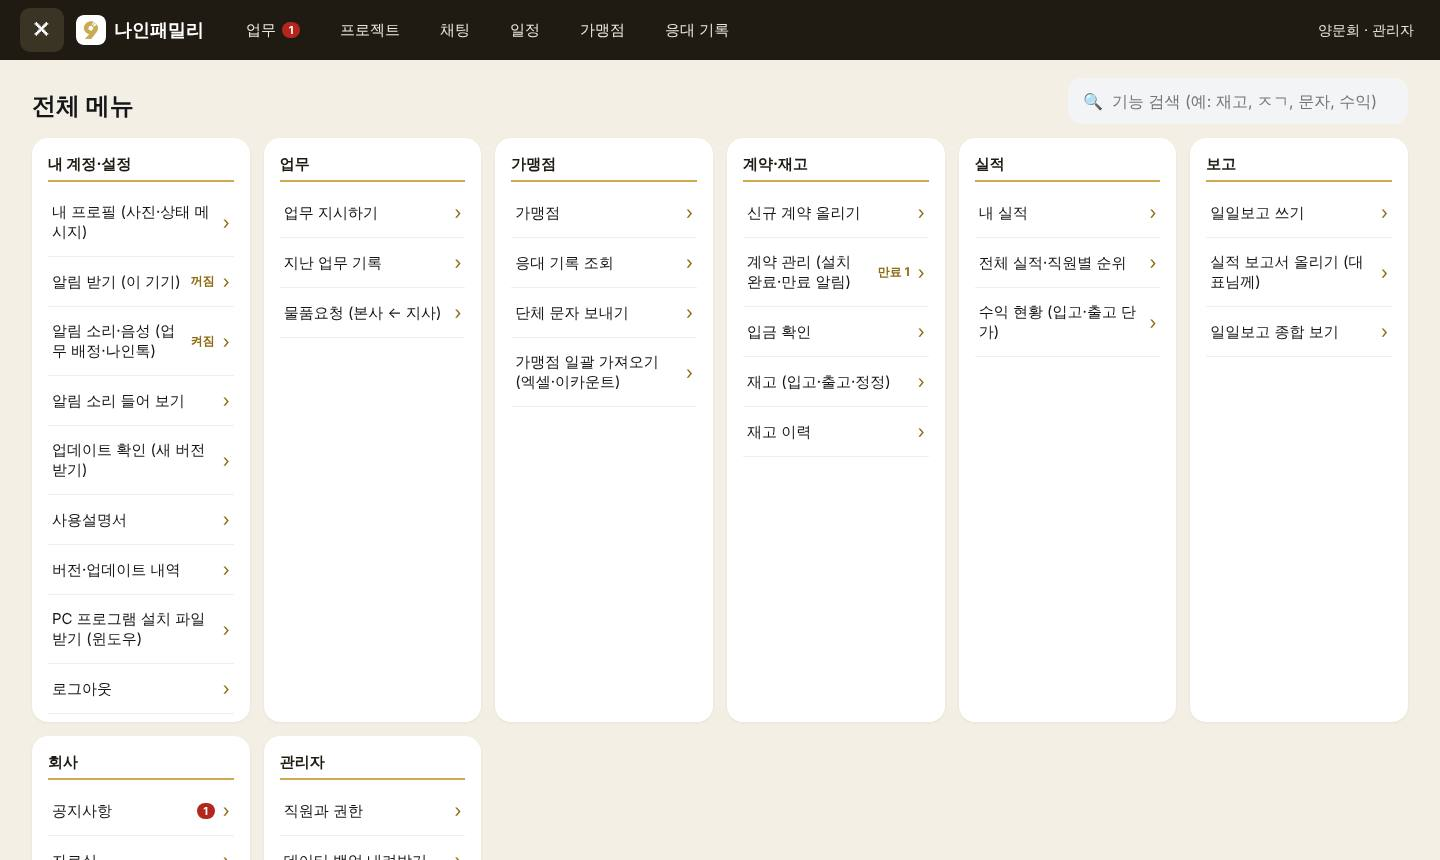
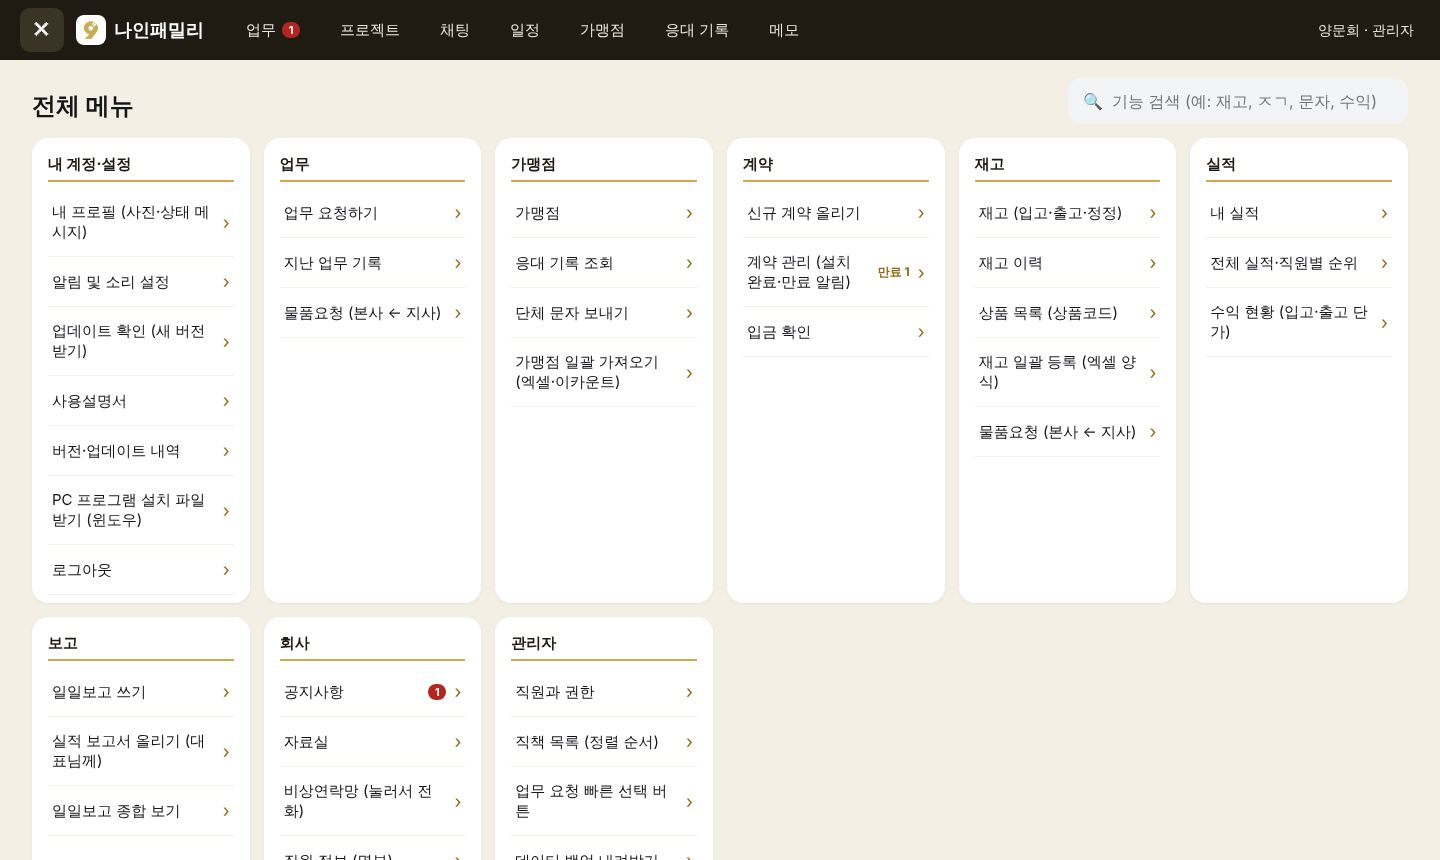
기능 소개서 갱신 (앱 v0.0.23 · 웹 0.0.34 기준, 새 화면)
Claude-Session: https://claude.ai/code/session_01LWjW4LfQjajZfStAKsDaD8

diff --git a/docs/intro/nine-family-intro.html b/docs/intro/nine-family-intro.html
@@ -77,9 +77,9 @@ footer{padding-block:48px 56px;color:var(--sub);font-size:13px}
     <div>
       <div class="eyebrow" style="color:var(--gold)">(주)나인페이먼츠 사내 업무 앱</div>
       <h1>나인패밀리</h1>
-      <p class="lead">업무 지시부터 가맹점 응대, 재고와 물품요청, 계약·실적, 사내 메신저 나인톡까지. 본사와 광주지사가 한 서버에서 실시간으로 같은 자료를 봅니다.</p>
+      <p class="lead">업무 요청부터 가맹점 응대, 재고와 물품요청, 계약·실적, 사내 메신저 나인톡까지. 본사와 광주지사가 한 서버에서 실시간으로 같은 자료를 봅니다.</p>
       <div class="plat"><span>안드로이드 앱</span><span>아이폰 웹앱</span><span>윈도우 PC 프로그램</span></div>
-      <p class="who">앱 v0.0.11 · 웹 0.0.23 기준 · 2026년 10월</p>
+      <p class="who">앱 v0.0.23 · 웹 0.0.34 기준 · 2026년 10월 25일</p>
     </div>
     <img src="img/pc_home.jpg" alt="PC 화면: 위쪽 주 메뉴와 왼쪽 내 할 일, 오늘 현황" width="1440" height="860">
   </div>
@@ -88,26 +88,26 @@ footer{padding-block:48px 56px;color:var(--sub);font-size:13px}
 <div class="wrap">
   <div class="facts">
     <div class="fact"><b>3</b><span>기기 (안드로이드·아이폰·PC), 같은 자료</span></div>
-    <div class="fact"><b>8</b><span>전체 메뉴 묶음, 권한별로 보이는 메뉴가 달라요</span></div>
+    <div class="fact"><b>9</b><span>전체 메뉴 묶음, 권한별로 보이는 메뉴가 달라요</span></div>
     <div class="fact"><b>2</b><span>재고 보관지 (본사·광주지사)</span></div>
-    <div class="fact"><b>3중</b><span>자료 보호 (삭제 방지·변경 기록·자동 백업)</span></div>
+    <div class="fact"><b>4중</b><span>자료 보호 (삭제 방지·변경 기록·자동 백업·삭제 비밀번호)</span></div>
   </div>
 
   <section>
     <div class="sechead">
       <div class="eyebrow">핵심 기능</div>
       <h2>하루 일이 한 화면에서 이어집니다</h2>
-      <p class="muted">업무를 지시하면 담당자 폰이 "업무가 배정되었습니다"라고 알려 주고, 처리결과는 그 가맹점 응대 기록에 자동으로 남습니다. 지사에서 물품을 요청하면 본사가 주문·발송하고, 받는 쪽이 입고 확인하는 순간 재고에 들어갑니다.</p>
+      <p class="muted">업무를 요청하면 담당자 폰이 "업무가 배정되었습니다"라고 알려 주고, 처리결과는 그 가맹점 응대 기록에 자동으로 남습니다. 지사에서 물품을 요청하면 본사가 주문·발송하고, 받는 쪽이 입고 확인하는 순간 재고에 들어갑니다.</p>
     </div>
 
     <article class="feat">
-      <div class="shot"><img src="img/pc_task.jpg" alt="업무 지시 창: 가맹점 조회, 용지신청 빠른 선택, 가맹점 요청사항" width="1440" height="860" loading="lazy"></div>
+      <div class="shot"><img src="img/pc_task.jpg" alt="업무 요청 창: 가맹점 조회, 빠른 선택 버튼, 가맹점 요청사항" width="1440" height="860" loading="lazy"></div>
       <div>
-        <span class="tag">업무</span><h3 style="margin-top:8px">업무 지시와 처리, 응대 기록까지 한 번에</h3>
+        <span class="tag">업무</span><h3 style="margin-top:8px">업무 요청과 처리, 응대 기록까지 한 번에</h3>
         <ul>
-          <li>제목·종류·담당자·기한을 정해 지시하면, 기한이 일정 달력에도 표시됩니다.</li>
+          <li>제목·종류·담당자·기한을 정해 요청하면, 기한이 일정 달력에도 표시됩니다.</li>
           <li>가맹점을 고르면 전화·주소가 채워지고, 없는 가맹점은 그 자리에서 새로 등록해 바로 연결합니다.</li>
-          <li>가맹점 요청사항에 <b>용지신청</b> 같은 빠른 선택이 있고, 직접 입력과 함께 씁니다.</li>
+          <li>가맹점 요청사항에 <b>용지신청</b> 같은 빠른 선택 버튼이 있고, 관리자가 버튼을 직접 추가·편집합니다.</li>
           <li>완료할 때 처리결과를 적으면 요청사항과 함께 그 가맹점 <b>응대 기록</b>에 남습니다.</li>
           <li>상태는 미확인 → 진행중 → 보류 → 완료. 열어 본 시각, 일정 변경까지 처리 이력에 남습니다.</li>
         </ul>
@@ -125,7 +125,9 @@ footer{padding-block:48px 56px;color:var(--sub);font-size:13px}
           <li>1:1 대화와 그룹 채팅방. 직원이 많아도 이름·초성·번호로 찾습니다.</li>
           <li>말풍선 옆 노란 숫자로 <b>아직 안 읽은 사람 수</b>를 보여 주고, 다 읽으면 사라집니다. 읽음은 계정 단위라 PC에서 읽으면 폰에서도 읽음이 됩니다.</li>
           <li>사진·파일·스티커·반응·답장.</li>
-          <li>"띵동" 소리와 함께 음성으로 알려 줍니다. 새 업무는 "업무가 배정되었습니다", 채팅은 "나인톡", 물품요청과 발송, 공지도 각각 다른 문구로 알립니다.</li>
+          <li>새 업무는 "띵동" + <b>"업무가 배정되었습니다"</b>, 채팅은 카톡처럼 짧고 밝게 <b>"나인톡!"</b>. 물품요청·발송·공지도 각각 다른 음성으로 알립니다.</li>
+          <li>☰ → 내 계정·설정 → <b>알림 및 소리 설정</b>에서 업무 소리·채팅 소리를 따로 켜고 끄고 들어 봅니다. 채팅방마다 음소거도 됩니다.</li>
+          <li>안드로이드 앱은 <b>화면이 꺼져 있거나 앱을 닫아도</b> 알림이 오고 화면이 켜집니다.</li>
         </ul>
       </div>
     </article>
@@ -136,10 +138,11 @@ footer{padding-block:48px 56px;color:var(--sub);font-size:13px}
         <span class="tag">가맹점</span><h3 style="margin-top:8px">가맹점 정보와 계약 만료 관리</h3>
         <ul>
           <li>상호·사업자번호·전화·휴대폰·이메일·주소·VAN사·계약구분(임대 월 CMS / 판매 금액)·등급·메모.</li>
+          <li>등급은 직원들이 부르는 대로 <b>0코드 · 1코드 · 2코드 · 3코드</b>(VAN 수수료 월 5만·3만·1만원 이상·미만), 그다음 해지가맹점 · 신규가맹점 · 협력사.</li>
           <li><b>계약시작일·계약종료일</b>과 남은 날(D-day). 목록에서 1·2·3개월 이내, 만료됨으로 걸러 종료일 빠른 순으로 봅니다.</li>
           <li>VAN·PG사 목록: 다우데이타, 다우데이타PG, KIS정보통신, KIS정보통신PG, NHN KCP, KOVAN, KOPAY PG.</li>
-          <li>상호·초성(ㅅㅇㅍㄷ)·사업자번호 검색. 엑셀·CSV(이카운트 등)로 한꺼번에 가져오기.</li>
-          <li>수정은 권한과 관리자가 정한 <b>암호</b>가 있어야 하고, 두 사람이 동시에 고치면 경고합니다.</li>
+          <li>상호·초성(ㅅㅇㅍㄷ)·사업자번호 검색. 이카운트 거래처 엑셀을 그대로 올리거나, <b>업로드 양식(.xlsx)</b>을 받아 채워 한꺼번에 가져옵니다.</li>
+          <li>수정은 권한과 관리자가 정한 <b>암호</b>가 있어야 하고, 삭제는 <b>삭제 비밀번호</b>를 한 번 더 묻습니다.</li>
         </ul>
       </div>
     </article>
@@ -160,14 +163,16 @@ footer{padding-block:48px 56px;color:var(--sub);font-size:13px}
     </article>
 
     <article class="feat">
-      <div class="shot"><img src="img/pc_preq.jpg" alt="물품요청: 요청 › 주문함 › 발송함 › 입고완료 단계" width="1440" height="860" loading="lazy"></div>
+      <div class="shot"><img src="img/pc_stock.jpg" alt="재고 화면: 보관지별 재고와 [상품코드] 표시, 재고 일괄 등록" width="1440" height="860" loading="lazy"><img src="img/pc_preq.jpg" alt="물품요청: 요청 › 주문함 › 발송함 › 입고완료 단계" width="1440" height="860" loading="lazy" style="margin-top:12px"></div>
       <div>
         <span class="tag">재고 · 물품요청</span><h3 style="margin-top:8px">본사·광주지사 재고와 지사 물품요청</h3>
         <ul>
           <li>보관지별 재고: 입고 때 보관지를 고르고, 보관지를 바꾸면 '이동'으로 이력에 남습니다.</li>
           <li>입고 · 출고(반품·불량·A/S 교체·분실) · 수량 정정(재고 조사) · 이력. 안전재고 아래로 떨어지면 빨갛게 알려 줍니다.</li>
+          <li><b>상품코드</b>(P0001…): 재고와 물품요청이 같은 상품 목록·코드를 씁니다. 관리자가 등록·수정합니다.</li>
+          <li><b>재고 일괄 등록(엑셀 양식)</b>: 상품코드·시리얼·수량·현재위치. 본사·광주지사는 우리 재고로, 가맹점 상호는 이미 설치된 장비로 기록만 합니다.</li>
           <li>바코드: PC는 USB·블루투스 스캐너, 폰은 카메라로 찍습니다.</li>
-          <li><b>물품요청</b>: 지사가 품목·수량을 적어 본사 담당자에게 보내면 본사가 주문·발송(송장 메모)하고, 받는 쪽이 입고 확인하면 그 보관지 재고에 자동으로 들어갑니다.</li>
+          <li><b>물품요청</b>: 재고 품목(상품코드·보관지별 재고 수)에서 고르거나, 없는 물품은 이름만 적어 본사 담당자에게 보내면 본사가 주문·발송(송장 메모)하고, 받는 쪽이 입고 확인하면 그 보관지 재고에 자동으로 들어갑니다.</li>
         </ul>
         <div class="flow"><span>요청</span><i>›</i><span>주문함</span><i>›</i><span>발송함</span><i>›</i><span>입고완료</span></div>
       </div>
@@ -180,9 +185,33 @@ footer{padding-block:48px 56px;color:var(--sub);font-size:13px}
         <ul>
           <li>신규 계약(판매·CMS·렌탈) 등록 때 재고에서 장비를 골라 출고하고, 설치 완료 처리, 만료 3개월 전 알림.</li>
           <li>입금 확인 요청과 처리.</li>
-          <li>내 실적, 전체 실적·직원별 순위, 지난달 비교, 6개월 추이. 수익 현황(입고·출고 단가)은 실적 권한자만 봅니다. 대표님 같은 계정은 실적에서 뺄 수 있습니다.</li>
-          <li>일일보고 쓰기와 종합 보기, 대표님께 올리는 실적 보고서.</li>
+          <li>내 실적, 전체 실적(<b>순위순 / 직책순</b>), 지난달 비교, 6개월 추이. 수익 현황(입고·출고 단가)은 실적 권한자만 봅니다. 대표님 같은 계정은 실적에서 뺄 수 있습니다.</li>
+          <li>일일보고 쓰기와 종합 보기(직책순, 명단에 넣을 사람은 관리자가 체크), 대표님께 올리는 실적 보고서.</li>
           <li>일정 달력에 한국 공휴일과 업무 기한이 함께 보입니다.</li>
+        </ul>
+      </div>
+    </article>
+
+    <article class="feat">
+      <div class="shot"><img src="img/pc_staff.jpg" alt="직원 정보 창: 사진, 부서, 직책, 생년월일, 연락처, 주소와 정보 수정·권한 설정·완전 삭제 버튼" width="1440" height="860" loading="lazy"></div>
+      <div>
+        <span class="tag">직원 · 권한</span><h3 style="margin-top:8px">직원 정보와 권한을 따로 관리</h3>
+        <ul>
+          <li>직원을 누르면 <b>직원 정보</b>(사진·부서·직책·생년월일·연락처·주소)가 열리고, 정보 수정과 <b>권한 설정</b>은 다른 창에서 합니다.</li>
+          <li><b>직책 목록</b>은 관리자가 추가·수정·삭제하고, 위에 있을수록 앞에 보입니다: 대표 · 이사 · 본부장 · 지사장 · 부장 · 차장 · 과장 · 대리 · 사원.</li>
+          <li>'직원 정보 보기' 권한이 있으면 ☰ → 회사 → 직원 정보(명부)를 봅니다.</li>
+          <li>퇴사자는 사용 중지, 또는 <b>삭제 비밀번호</b>를 넣고 완전 삭제(목록·로그인에서 빠짐).</li>
+        </ul>
+      </div>
+    </article>
+
+    <article class="feat flip">
+      <div class="shot"><img src="img/pc_memo.jpg" alt="PC 메모: 위쪽 메뉴 맨 끝 메모, 노란 메모 카드" width="1440" height="860" loading="lazy"></div>
+      <div>
+        <span class="tag">PC 메모</span><h3 style="margin-top:8px">업무 중 적어 둘 것은 메모에</h3>
+        <ul>
+          <li>PC 화면 위쪽 메뉴 맨 끝 <b>메모</b>. 적고 Ctrl+Enter, 고치면 자동 저장됩니다.</li>
+          <li>📌 맨 위 고정, 🗑 삭제, 초성 검색. 내 계정에 저장돼 다른 PC에서도 보입니다.</li>
         </ul>
       </div>
     </article>
@@ -192,10 +221,10 @@ footer{padding-block:48px 56px;color:var(--sub);font-size:13px}
     <div class="sechead">
       <div class="eyebrow">화면 구성</div>
       <h2>폰은 아래 탭, PC는 위쪽 메뉴</h2>
-      <p class="muted">휴대폰(안드로이드 앱, 아이폰 웹앱)은 아래 탭 업무·프로젝트·채팅·일정·전체. PC는 위쪽 주 메뉴와 ☰ 전체 메뉴를 쓰고, 왼쪽 칸에 화면마다 바로가기 목록이 붙습니다.</p>
+      <p class="muted">휴대폰(안드로이드 앱, 아이폰 웹앱)은 아래 탭 업무·프로젝트·채팅·일정·☰. 안 본 개수는 빨간 동그라미 숫자로 보입니다. PC는 위쪽 주 메뉴와 ☰ 전체 메뉴를 쓰고, 왼쪽 칸에 화면마다 바로가기 목록이 붙습니다.</p>
     </div>
-    <img src="img/pc_menu.jpg" alt="PC ☰ 전체 메뉴: 8개 묶음이 가로로 펼쳐진 화면" width="1440" height="860" loading="lazy">
-    <p class="cap">☰ 전체 메뉴 묶음 순서: 내 계정·설정 · 업무 · 가맹점 · 계약·재고 · 실적 · 보고 · 회사 · 관리자. 권한이 없는 메뉴는 보이지 않습니다.</p>
+    <img src="img/pc_menu.jpg" alt="PC ☰ 전체 메뉴: 9개 묶음이 펼쳐진 화면" width="1440" height="860" loading="lazy">
+    <p class="cap">☰ 전체 메뉴 묶음 순서: 내 계정·설정 · 업무 · 가맹점 · 계약 · 재고 · 실적 · 보고 · 회사 · 관리자. 권한이 없는 메뉴는 보이지 않습니다.</p>
   </section>
 
   <section>
@@ -213,7 +242,8 @@ footer{padding-block:48px 56px;color:var(--sub);font-size:13px}
         <tr><td>실적 보기</td><td>전체 실적·순위·수익 현황·단가, 모든 계약</td></tr>
         <tr><td>일일보고·실적보고 종합 보기</td><td>직원 전체 일일보고와 실적 보고서</td></tr>
         <tr><td>가맹점 등록·수정</td><td>가맹점 등록·수정·삭제 (관리자가 정한 암호 필요)</td></tr>
-        <tr><td>직원 관리 (관리자)</td><td>직원 추가·권한·사용 중지, 백업, 가맹점 보호·복원</td></tr>
+        <tr><td>직원 정보 보기</td><td>직원 명부(부서·직책·생년월일·연락처·주소)</td></tr>
+        <tr><td>직원 관리 (관리자)</td><td>직원 추가·정보·권한·사용 중지·완전 삭제, 직책 목록, 삭제 비밀번호, 백업, 가맹점 보호·복원</td></tr>
       </tbody>
     </table></div>
   </section>
@@ -223,10 +253,11 @@ footer{padding-block:48px 56px;color:var(--sub);font-size:13px}
       <div class="eyebrow">자료 보호</div>
       <h2>지워지지 않고, 되돌릴 수 있게</h2>
     </div>
-    <div class="grid3">
+    <div class="grid3" style="grid-template-columns:repeat(auto-fit,minmax(220px,1fr))">
       <div class="box"><h3>삭제 방지</h3><p class="muted">서버 규칙이 삭제를 막고 '삭제 표시'만 남깁니다. 지운 가맹점은 휴지통에서 되살립니다.</p></div>
       <div class="box"><h3>변경 기록</h3><p class="muted">모든 저장은 누가 언제 무엇을 바꿨는지 기록됩니다. 가맹점은 예전 내용으로 되돌릴 수 있습니다.</p></div>
       <div class="box"><h3>자동 백업</h3><p class="muted">관리자 기기에 하루 한 번 14일치를 보관하고, 관리자가 언제든 백업 파일을 내려받습니다. 서버 암호화 백업도 매일 돕니다.</p></div>
+      <div class="box"><h3>삭제 비밀번호</h3><p class="muted">직원 완전 삭제, 가맹점·재고·응대 기록·자료실 삭제 때 관리자가 정한 비밀번호를 한 번 더 묻습니다.</p></div>
     </div>
   </section>
 
@@ -253,7 +284,7 @@ footer{padding-block:48px 56px;color:var(--sub);font-size:13px}
       <div class="box"><h3>택배 송장 연동</h3><p class="muted">한진택배 접수·송장 출력, 운송장 번호 기록</p></div>
       <div class="box"><h3>인쇄 · 엑셀 내보내기</h3><p class="muted">목록을 엑셀로, 화면을 인쇄용으로</p></div>
       <div class="box"><h3>전자계약 서명</h3><p class="muted">링크로 보내고 고객이 폰에서 서명</p></div>
-      <div class="box"><h3>푸시 알림 · 카톡 알림톡</h3><p class="muted">앱을 닫아 둬도 알림, 고객 공지</p></div>
+      <div class="box"><h3>웹·아이폰 푸시 · 카톡 알림톡</h3><p class="muted">웹앱을 닫아 둬도 알림(안드로이드는 이미 됨), 고객 공지</p></div>
     </div>
   </section>
 
